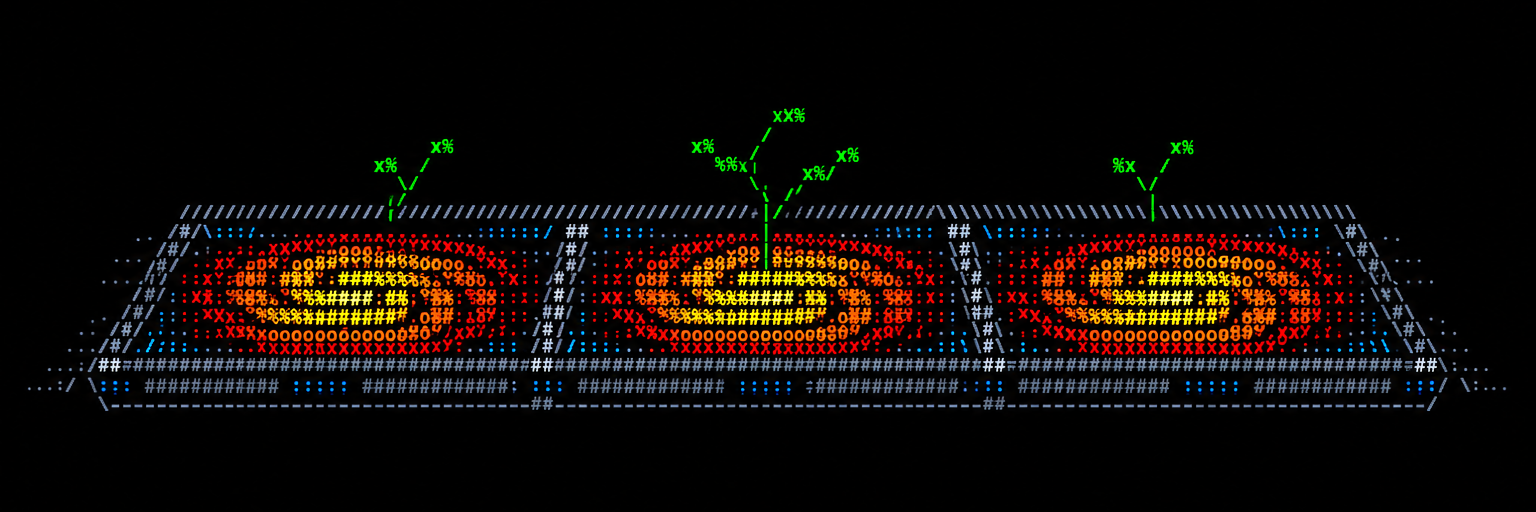
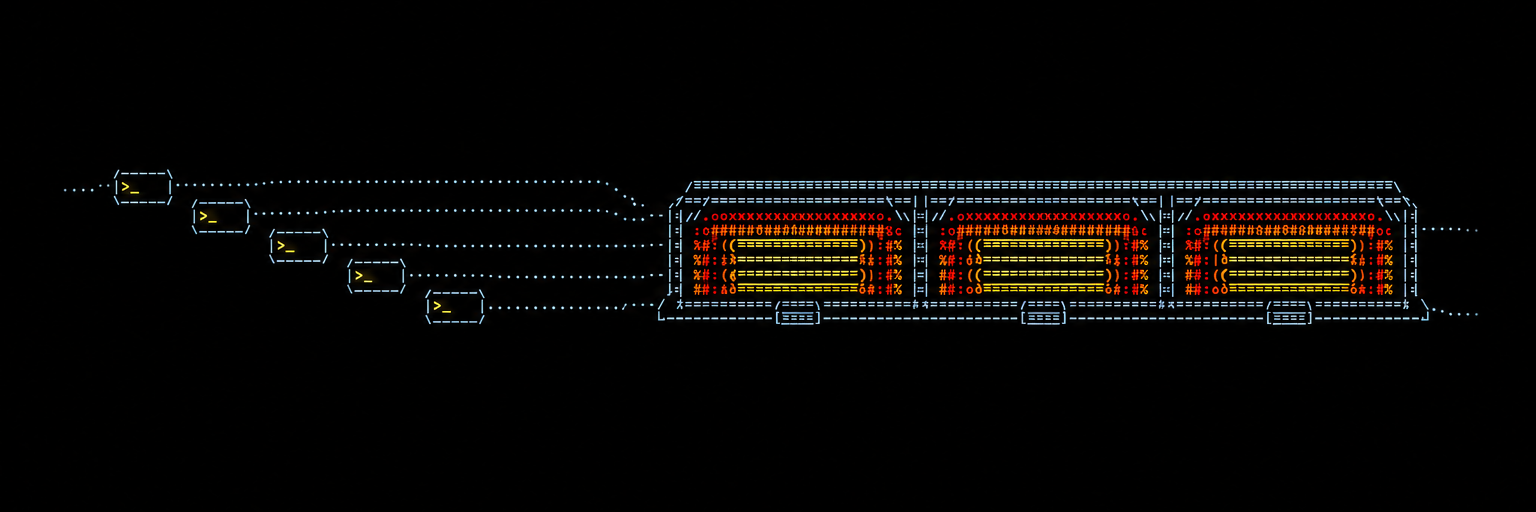
README header: terminal prompts wired into three warm slots

diff --git a/README.md b/README.md
@@ -1,5 +1,5 @@
 <p align="center">
-  <img src=".github/assets/header.png" alt="Three build slots glowing warm, drawn in terminal characters, with git branches growing out of them" width="100%" />
+  <img src=".github/assets/header.png" alt="Five terminal prompts wired into a rack of three build slots glowing warm, drawn in terminal characters" width="100%" />
 </p>
 
 <h1 align="center">xcslot</h1>
